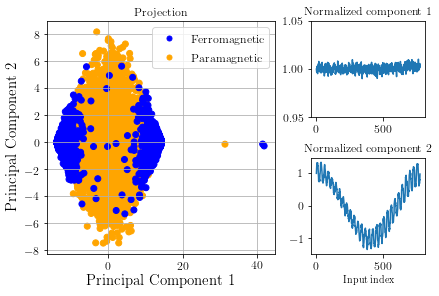
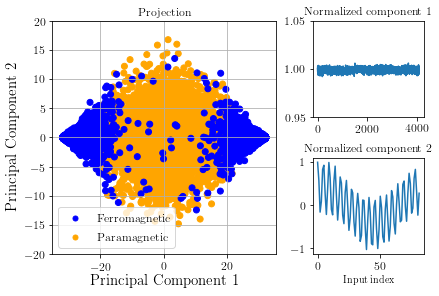
Ising section updates

diff --git a/ising.md b/ising.md
@@ -1,80 +1,75 @@
 # The Ising Model
 
 ## Summary
-The Ising dataset contains spin-configuration snapshots. Each snapshot is labeled with a temperature (continuous) and a phase (binary) classification label ([further details below](#Descriptions)). Each set consists of 1.000 samples per temperature $T$ in the range $T = 1.0$ to $T=3.5$ in steps of size $0.05$, totalling to $51,000$ samples per dataset.
+The Ising dataset is the canonical dataset for getting into machine learning for physics. Since this canonical Ising model is not quantum, the dataset consists of classical spin-configuration snapshots. Each snapshot is labeled with a temperature (a continuous number) and a phase (binary) classification label ([further details below](#Descriptions)). Each set consists of a 1000 samples per temperature $T$ in the range $T = 1.0$ to $T=3.5$ in steps of size $0.05$, totaling to $51,000$ samples per dataset (and hence 51 temperatures).
 
 Here are some example snapshots in this dataset, with temperature $T$ and label $\ell$ indicated.
 
-![alt text](imgs/IsingExamples.png "Example snapshots of 10x10 Ising data")
+![alt text](imgs/IsingExamples.png "Example snapshots of 28x28 Ising data")
 
 Different system sizes are available to allow for a finite-size scaling analysis.
 
 ## Download
 <!-- If you use this dataset for a publication, please cite the ... -->
 
-Below are datasets with various system sizes in the `.npy` format, suitable for use in python. 
+Below are datasets with various system sizes in the `.npy` format, for easy use in python.
 
-| Name  	|  Size 	|  MD5 Checksum  	| 
-| :--- | :---: | :--- | 
-| [ising-28x28-npy.tar.gz](https://github.com/quantumdata/data/releases/tag/v0.1-alpha) | 6.6MB  	| e933f050f6b2bcc5d20595a3f8a74744  	| 
-| [ising-32x32-npy.tar.gz](https://github.com/quantumdata/data/releases/tag/v0.1-alpha)  | 8.6MB  	| 3032be59ab009080b69117ff5bece567  	|
-| [ising-48x48-npy.tar.gz](https://github.com/quantumdata/data/releases/tag/v0.1-alpha)  | 19MB  	| bb6e72b74a45427abea53996d05753bf  	|
-| [ising-64x64-npy.tar.gz](https://github.com/quantumdata/data/releases/tag/v0.1-alpha)  | 34MB  	| 7cf378e17b5b7e2316e6611f2b759652  	|
+| Name  	|  Size 	|  MD5 Checksum  	|
+| :--- | :---: | :--- |
+| [ising-28x28-npy.tar.gz](https://github.com/quantumdata/data/releases/tag/v0.1-ising-npy) | 6.6MB  	| e933f050f6b2bcc5d20595a3f8a74744  	|
+| [ising-32x32-npy.tar.gz](https://github.com/quantumdata/data/releases/tag/v0.1-ising-npy)  | 8.6MB  	| 3032be59ab009080b69117ff5bece567  	|
+| [ising-48x48-npy.tar.gz](https://github.com/quantumdata/data/releases/tag/v0.1-ising-npy)  | 19MB  	| bb6e72b74a45427abea53996d05753bf  	|
+| [ising-64x64-npy.tar.gz](https://github.com/quantumdata/data/releases/tag/v0.1-ising-npy)  | 34MB  	| 7cf378e17b5b7e2316e6611f2b759652  	|
 
 See [alternative formats](#alternative-formats) for other data formats.
 
 ## Dataset layout
-Each compressed zip file contains two python archives, one with the snapshots and a separate one with labels. The following script shows how to load both:
+Each compressed zip file contains multiple python archives, one with the snapshots and a separate one with labels. The following script shows how to load both:
 
 ```python
 import numpy as np
 snapshots    = np.load("ising-28x28.npy")
 labels       = np.load("ising-28x28-lbl.npy")
 phases       = labels[:,0]
-temperatures = labels[:,1]
+temperatures = labels[:,1]  # = np.arange(1,3.55,0.05) (reversed)
 ```
 
-The temperatures in the dataset range from $T=1$ to $T=3.5$ in $51$ steps of size $0.05$, and each temperature has $1,000$ samples. The phase label takes values $0$ and $1$. The temperature closest to the transition temperature in the thermodynamic limit is $2.25$. 
+The temperatures in the dataset range from $T=1$ to $T=3.5$ in $51$ steps of size $0.05$, and each temperature has $1,000$ samples. The phase label takes values $0$ and $1$. The temperature closest to the transition temperature in the thermodynamic limit is $2.25$.
 
 ## Descriptions
-### Simple description
-Each pixel in a snapshot represents a little magnetic arrow (a.k.a a *spin*) variable, pointing either up (black, value +1) or down (white, value -1). These spins interact with their nearest neighbors, and try to align themselves. This alignment is only perfect at very small temperatures, resulting in a ferromagnetic system (phase label 0). As the temperature increases beyond critical, thermal fluctuations prevent the alignment and the system transitions into a paramagnetic system (phase label 1) where spins point up & down randomly. Possible machine learning applications on this dataset include:
-* Learning to classify the snapshots into phase 0 or phase 1
-* Extracting the transition temperature from a reduced dataset including only the smallest and largest temperatures [[1,2]](#References).
-* Learning the partition function $P(\textrm{configuration})$.
+Each pixel in a snapshot represents a little magnetic arrow (a.k.a a *spin*) variable, pointing either up (black, value +1) or down (white, value -1). These spins interact with their nearest neighbors, and try to align themselves. This alignment is only perfect at very small temperatures, resulting in a ferromagnetic system (phase label $\ell = 0$). As the temperature increases beyond critical ($T_c = 2.269$), thermal fluctuations prevent the alignment and the system transitions into a paramagnetic system (phase label $\ell = 1$) where spins point up & down randomly.
 
-Refer to the [Baselines](#baselines) section for example results.
+The data has been labeled according to the transition temperature of the thermodynamic limit.
 
-## Baselines
+## Example dataset uses
 
-Phase classification results
+Various machine learning analyses are possible on this dataset. Two highlights, each with different goals, are:
+* Learning to classify the snapshots into phase 0 or phase 1, with the goals of either extracting an [order parameter](https://en.wikipedia.org/wiki/Phase_transition#Order_parameters) or finding the [transition point](https://en.wikipedia.org/wiki/Phase_transition).
+* Learning the partition function (see [here](https://en.wikipedia.org/wiki/Partition_function_(statistical_mechanics)) $P(\textrm{configuration})$ using unsupervised methods.
 
-| Classifier | Test Error Rate (%) | Reference | Comments |
-| :---: | ---: | :---: | :--- |
-| FFNN | 50% | | |
+Give the [Challenge](#Challenge) below a go too.
 
-### Unsupervised
-#### Principal component analysis
-Unsupervised methods can be used to separate the two classes, see reference [4](Lei Wang). We use PCA to process the dataset, with the following results.
+#### Phase classification results
 
+##### Unsupervised (PCA)
+Unsupervised methods can be used to separate the two classes, see e.g. [this reference](https://arxiv.org/abs/1606.00318). A principal component analysis (PCA) works for this dataset, because the two phases are separable with a *linear& transformation. The dominant principal component corresponds simply to the intensity (~magnetization) of the snapshot, as the panel with normalized component 1 shows in the figure below.
 
-![alt text](imgs/IsingPCAExample.png "PCA analysis of 28x28 dataset")
+![alt text](imgs/IsingPCAExample.png "PCA analysis of the 64x64 dataset")
 
+##### Supervised Learning
+This model serves as a simple toy model for classifier architectures targeted at physical models. Many networks perform well on the dataset. Example works [here](https://arxiv.org/abs/1605.01735) or [here](https://arxiv.org/abs/1610.02048) illustrate some (semi-)supervised uses of this model.
 
-### Supervised Learning
-This model serves as a simple toy model for classifier architectures targeted at physical models. Many networks perform well on the dataset. An [example work](https://arxiv.org/abs/1605.01735) that illustrates a possible machine learning project on this dataset. We wish to classify the two different phases in the model. We can begin by defining a simple feed-forward net, a single layer fully connected neural net with ~100 hidden units with ReLU activation, dropout regularization, and softmax. 
+We repeat the essence of [this work](https://arxiv.org/abs/1605.01735) here, by defining a simple feed-forward net: a single layer fully connected neural net with ~100 hidden units with ReLU activation, dropout regularization, and softmax. This model performs quite well; you should be able to obtain over 90% accuracy on our test-sets.
 
-This model performs quite well on our dataset, you should be able to obtain over 90% accuracy on our tests.
+The figure below illustrates this in two ways. In the *rightmost* panel, we evaluate the model's label prediction by comparing the predicted label directly to the target label and record the accuracy of that prediction, for each temperature, averaged over the 1000 snapshots at that temperature. On the left we show to sets of curves: one with the accuracy of the networks' prediction of the label 0, and similarly for the prediction of label 1. Both of these show a drop in accuracy at the transition point.
 
-Another interesting way of evaluating our model is to see what sorts of output we get at what temperature. We expect very low temperature and very high temperature to be quite accurate, since they are either all random or all identical spins. Near the critical point, we would like to see how our model performs. 
+![alt text](imgs/Ising_Nature_Example.png "Network accuracy/output versus temperature")
 
-![alt text](imgs/Ising_Nature_Example.png "Network accuracy/output by temperature")
-
-There is also a point where our model "decides" to predict a different class more often. We can use temperatures around but not including the critical point to interpolate a critical point.
+### Challenge
+The above shows that supervised training is capable of classifying the data. The goal of this dataset in physics is to extract an as-accurate-as-possible transition temperature from a dataset, whilst assuming as little as possible about the correctness of the labels. As a challenge, restrict yourself to use only the data at temperatures below $T=1.5$ and above $T=3.0$, and see if you can use your model to evaluate the data at intermediate temperatures and extract the critical temperature.
 
 ## Alternative formats
-We provide alternative data formats for users not using `numpy` or python. [ising.txt]() is available for users of other languages. Note that `.npy` tends to be faster in python even if you don't plan on using `numpy` itself.  
-
+We provide alternative data formats for users not using `numpy` or python. For this model, plain text files are available [here](https://github.com/quantumdata/data/releases/tag/v0.1-ising-txt) Note that `.npy` tends to be faster in python even if you don't plan on using `numpy` itself, not to mention the much smaller filesize.
 
 ## More information
 ### Model history
@@ -99,10 +94,3 @@ The notation $\langle i,j \rangle$ denotes nearest neighbours only. Since we hav
 The thick yellow line represents exact calculated values. There is a noticeable discrepancy in the magnetism, since the calculated values are for the theoretical limit of an infinite system size. A finitely sized system can only approach the non-analytical cusp.
 
 There is a clear distinction between the two phases indicated by a sharp cusp in the magnetism, and divergence in the specific heat and magnetic susceptibility. These are values that can be analytically calculated, since the Ising model has an analytic solution, but not all models do.
-## References {docsify-ignore}
-
-
-Phys. Rev. 65 117 (1944)
-1103.3347
-1605.01735
-http://micro.stanford.edu/~caiwei/me334/Chap12_Ising_Model_v04.pdf
